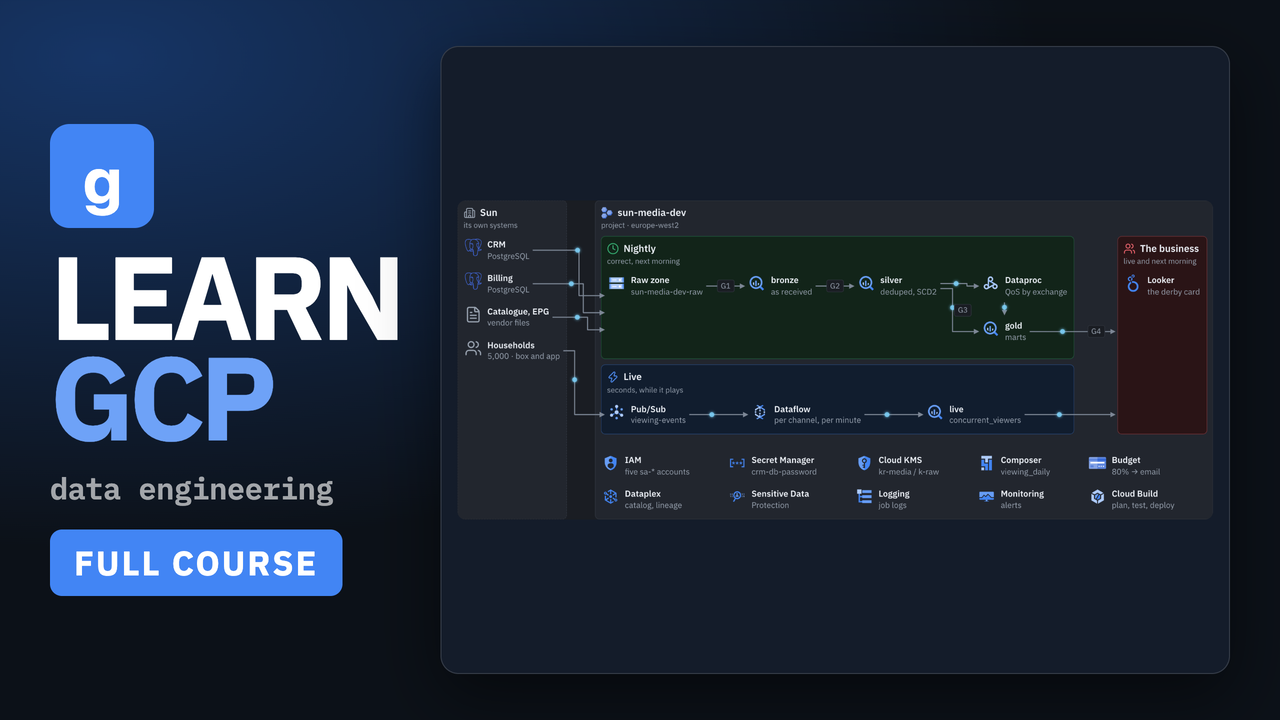
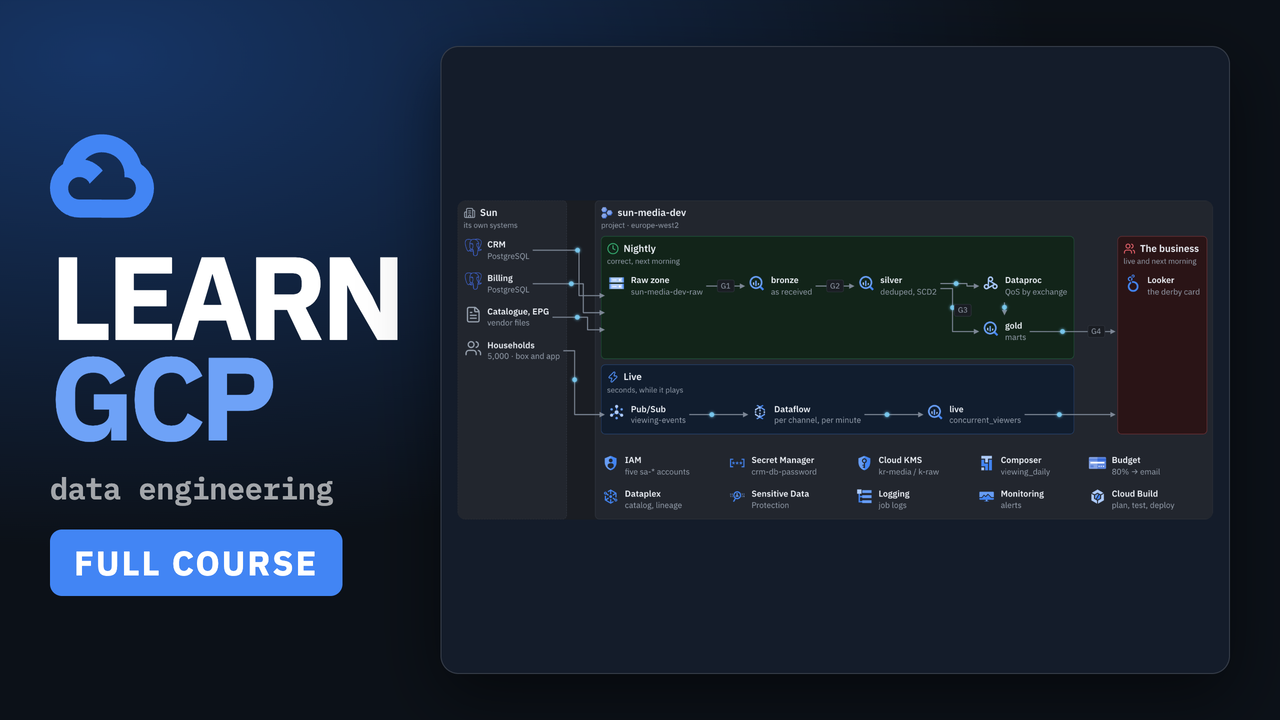
Film cover: the Google Cloud mark on film-map.png
thumb-film.mjs gains --mark gcp: Simple Icons' Google Cloud mark (the one
graphl-flow draws for its gcp key), vendored byte for byte at
public/vendor/googlecloud-logo.svg and painted in its brand colour. Its
NOTICE records the source and is left for the owner to complete.

Changed region(s): [[0.0312, 0.1528, 0.125, 0.3361]]

diff --git a/output/thumbnails/README.md b/output/thumbnails/README.md
@@ -5,23 +5,30 @@ card on the **dark** theme. Rebuild it, or a variant, with:
 
 ```sh
 npm run thumb:film                                                   # film.png
-npm run thumb:film -- --source map --out output/thumbnails/film-map.png
+npm run thumb:film -- --source map --mark gcp --out output/thumbnails/film-map.png
 npm run thumb:film -- --theme navy --out output/thumbnails/film-navy.png
 ```
 
-`--source` is `answer` | `map`; `--mark` is `tile`; `--theme` is `dark` | `navy` | `light`.
+`--source` is `answer` | `map`; `--mark` is `tile` | `gcp`; `--theme` is `dark` | `navy` | `light`.
 
-Kept beside it: `film-map.png`, the finished map from §1.3 taken live from the app. At the ~168px
+Kept beside it: `film-map.png`, the finished map from §1.3 taken live from the app, with the
+Google Cloud mark. At the ~168px
 the feed renders, its labels are gone and it reads as coloured confetti, while the answer card
 keeps "2,140 at 18:41" and the red EX-LDN-04 row readable.
 
-## The mark: the repo's tile only
+## The mark: the repo's tile, or the Google Cloud mark
 
-`--mark tile` is `public/favicon.svg`, the GraphL concept tile. It names GCP only in **text**,
-which is nominative use and needs no one's permission. No Google Cloud logo is vendored, and the
-script never draws one. To add one, vendor the real file unaltered with a NOTICE beside it, as
-azure-trade-finance does for the Azure icon, and give it an entry in `MARKS`. Read Google's brand
-guidelines first. This file is a design note, not legal advice.
+`--mark tile` (default) is `public/favicon.svg`, the GraphL concept tile. It names GCP only in
+**text**, which is nominative use and needs no one's permission.
+
+`--mark gcp` places Simple Icons' Google Cloud mark, vendored byte for byte at
+`public/vendor/googlecloud-logo.svg`. It is the same mark graphl-flow draws for its `gcp` icon key.
+It is a single-colour silhouette, not Google's four-colour logo. The file has no fill, so the script
+paints it in Simple Icons' brand colour `#4285f4`. The script never draws or re-traces it, and fails
+if the file is missing. `public/vendor/NOTICE-googlecloud-logo.txt` records where it came from:
+Simple Icons gives no licence for this icon, and the mark is Google's trademark. Read Google's brand
+guidelines and fill in the NOTICE before shipping a cover that wears it. This file is a design note,
+not legal advice.
 
 ## The card is real, and states its level
 
